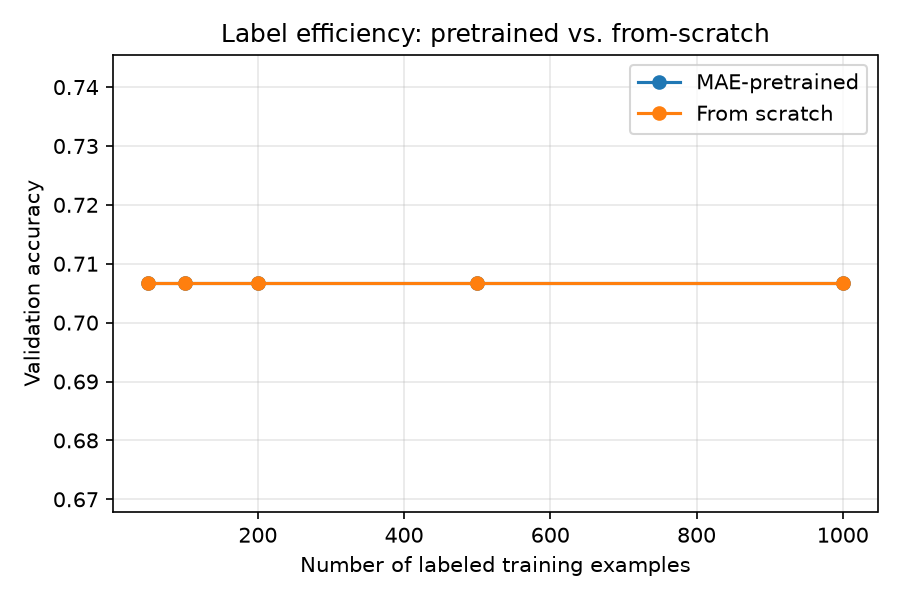
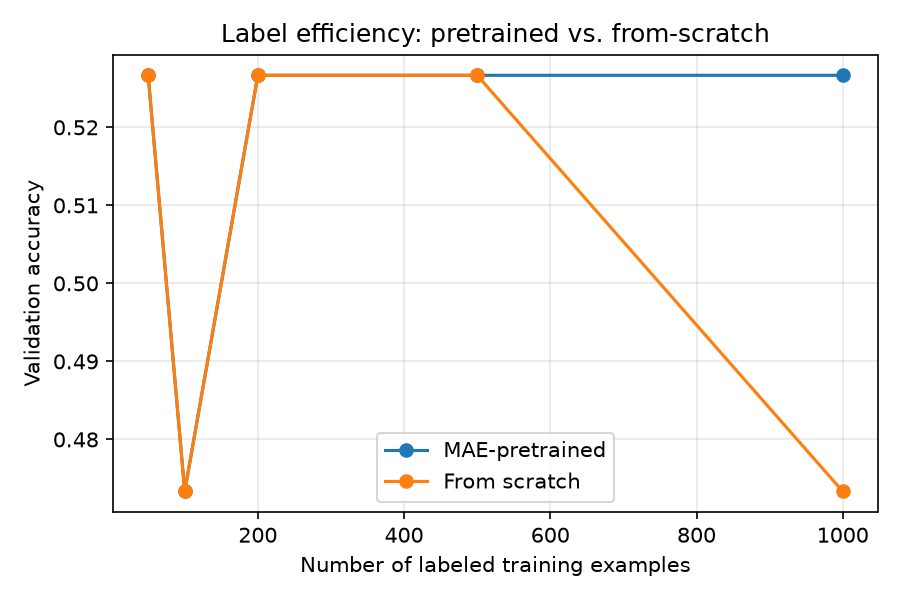
fix for finetune

diff --git a/src/finetune.py b/src/finetune.py
@@ -68,8 +68,14 @@ class MAEEncoderClassifier(nn.Module):
         patches = patchify(imgs, self.patch_size)
         x = self.patch_embed(patches) + self.pos_embed  # (B, N, D), NO masking -- full image visible
         x = self.encoder(x)
-        pooled = x.mean(dim=1)  # global average pool over all patch tokens
-        return self.head(pooled).squeeze(-1)  # (B,) raw logits
+        patch_logits = self.head(x).squeeze(-1)  # (B, N) -- one lesion-likelihood score per patch
+        # Max-pooling (not mean!) across patches: a lesion only occupies a few of the
+        # 64 patches, so averaging would dilute that signal into near-nothing. Taking
+        # the max instead asks "is there ANY patch that looks lesion-like?" -- this is
+        # the standard multiple-instance-learning (MIL) approach used for localized
+        # abnormality detection when only an image-level label is available.
+        logits, _ = patch_logits.max(dim=1)  # (B,)
+        return logits
 
 
 def build_model(pretrained: bool) -> MAEEncoderClassifier:
@@ -106,13 +112,14 @@ def train_one(model, loader, epochs, device):
 @torch.no_grad()
 def evaluate(model, loader, device):
     model.eval()
-    correct, total = 0, 0
+    correct, total, positive_preds = 0, 0, 0
     for imgs, labels in loader:
         imgs, labels = imgs.to(device), labels.to(device)
         preds = (torch.sigmoid(model(imgs)) > 0.5).float()
         correct += (preds == labels).sum().item()
+        positive_preds += preds.sum().item()
         total += labels.size(0)
-    return correct / total
+    return correct / total, positive_preds / total
 
 
 def main():
@@ -141,9 +148,9 @@ def main():
         for mode in ["pretrained", "scratch"]:
             model = build_model(pretrained=(mode == "pretrained"))
             model = train_one(model, loader, FT_EPOCHS, device)
-            acc = evaluate(model, val_loader, device)
+            acc, pos_rate = evaluate(model, val_loader, device)
             results[mode].append(acc)
-            print(f"label_fraction={frac:>4.2f} (n={n:>4d}) | {mode:>10s} | val accuracy = {acc:.3f}")
+            print(f"label_fraction={frac:>4.2f} (n={n:>4d}) | {mode:>10s} | val accuracy = {acc:.3f} | predicted-positive rate = {pos_rate:.2f}")
 
     # Plot the label-efficiency curve
     plt.figure(figsize=(6, 4))

diff --git a/src/dataset.py b/src/dataset.py
@@ -38,7 +38,7 @@ def _make_synthetic_slice(img_size: int, rng: np.random.Generator):
     img[brain_mask] += texture[brain_mask]
 
     # Random "lesion" blob (brighter or darker patch) inside the brain, most of the time
-    label = 1 if rng.random() < 0.7 else 0
+    label = 1 if rng.random() < 0.5 else 0
     if label == 1:
         lesion_r = rng.uniform(img_size * 0.05, img_size * 0.12)
         # keep the lesion center inside the brain ellipse
